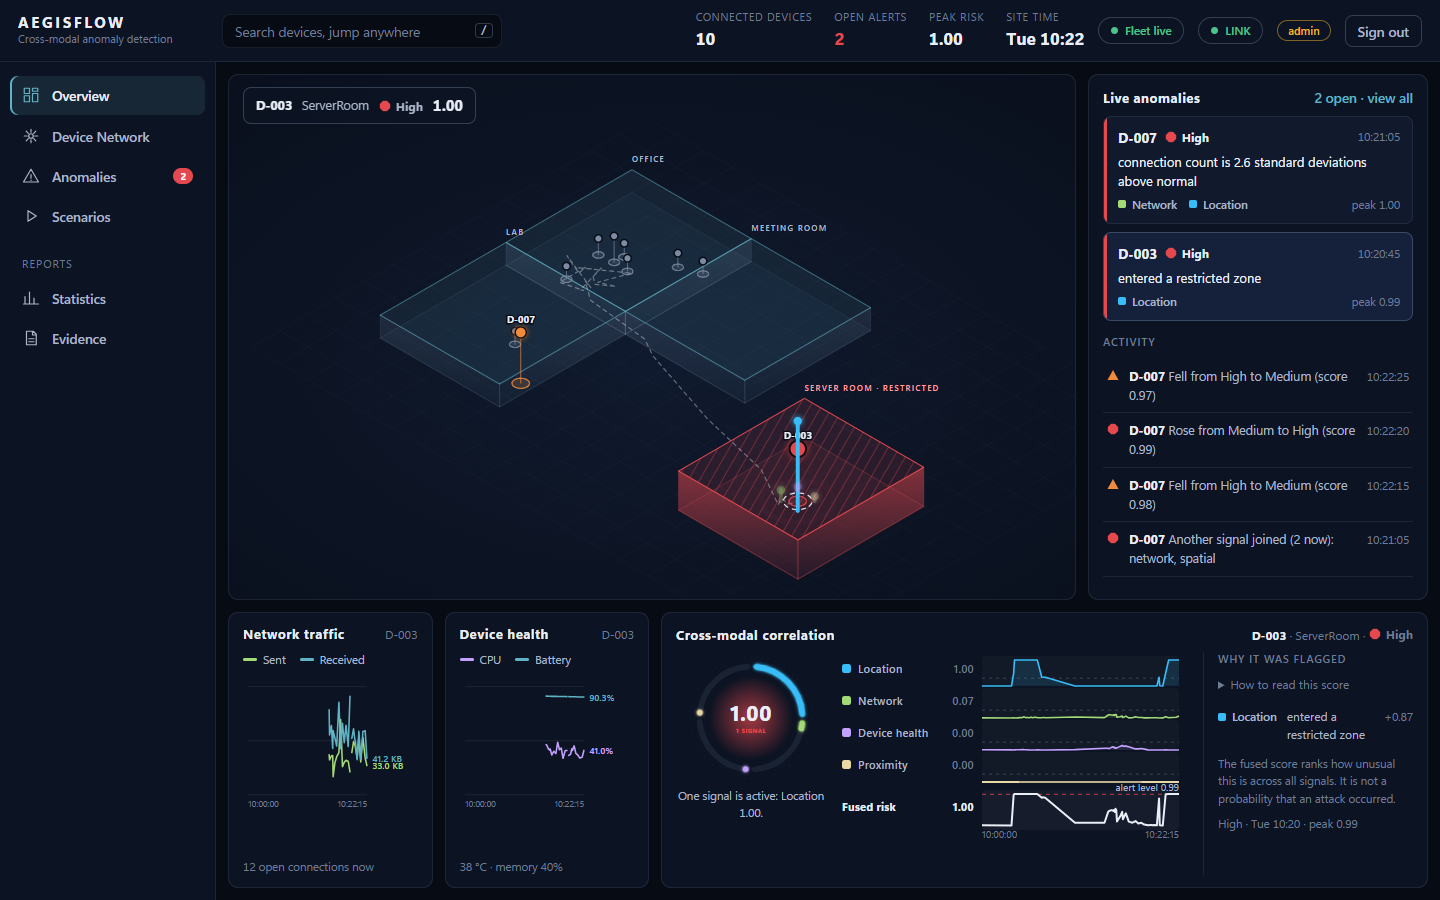
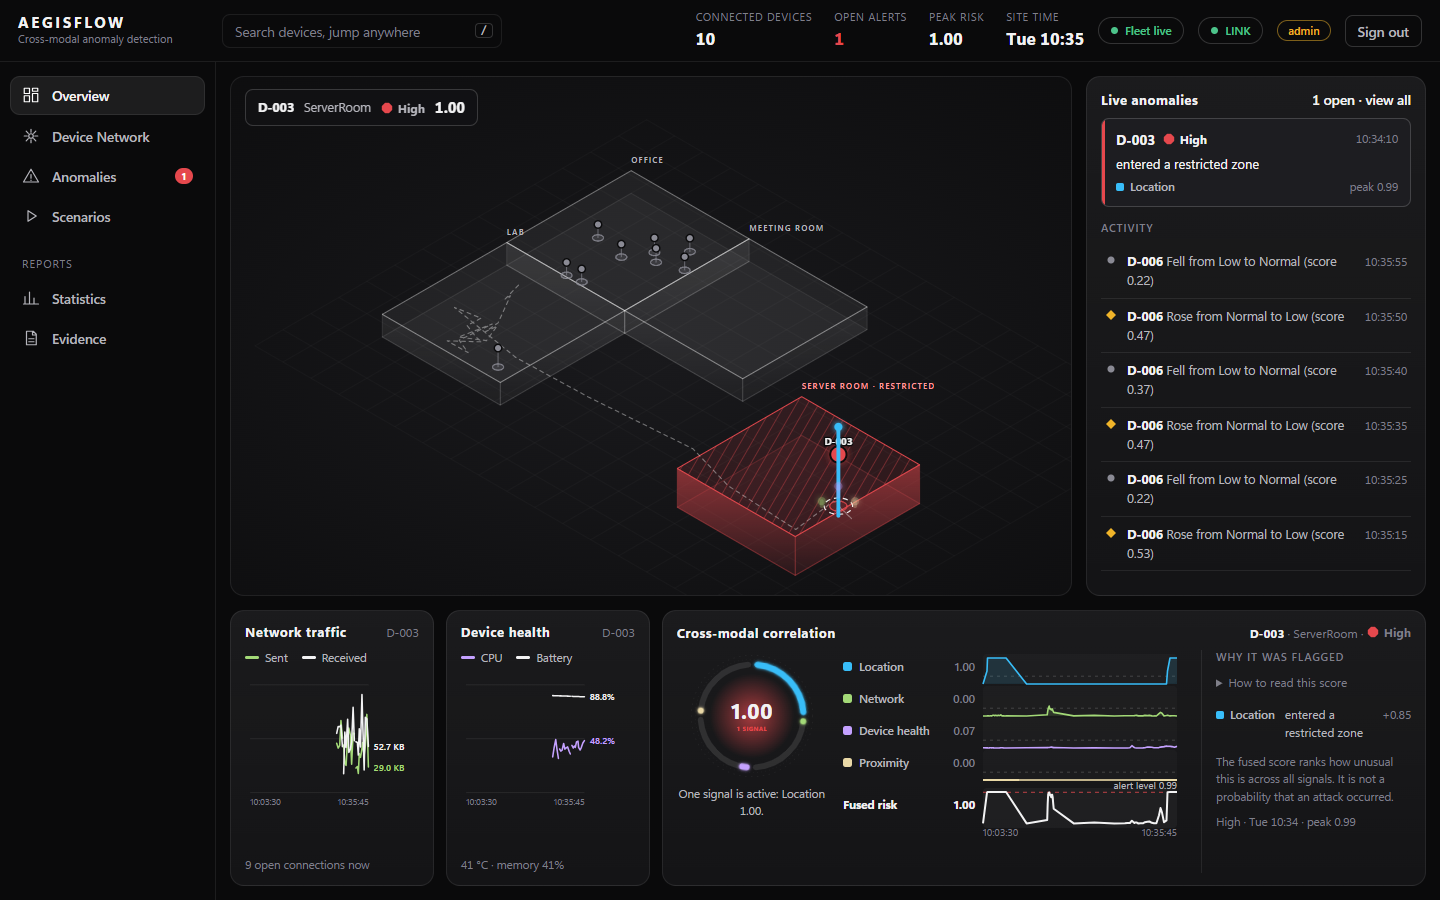
Graphite theme: neutral surfaces, soft cards, white accent, split sign-in screen; signal and severity colours unchanged; screenshots regenerated

diff --git a/frontend/src/styles.css b/frontend/src/styles.css
@@ -1,24 +1,24 @@
-/* AEGISFLOW: refined mission control.
-   Near-black navy surfaces, one muted-cyan accent, white text, amber for warnings, a restrained red for critical.
-   The four signals keep fixed colours everywhere (validated as a set for colour-blind separation) and are always
-   labelled; severity is always colour + shape + word. No glow, no scanlines: quiet until something matters. */
+/* AEGISFLOW: graphite mission control.
+   Near-black neutral surfaces, soft low-contrast cards with hairline borders, white as the single accent (primary buttons, active items).
+   The four signals keep fixed colours everywhere (validated as a set for colour-blind separation) and are always labelled;
+   severity is always colour + shape + word. Colour appears only where it carries meaning. */
 :root {
   color-scheme: dark;
-  --bg: #070b14;
-  --panel: #0c1322;
-  --panel2: #111a2c;
-  --ink: #e9eef7;
-  --ink2: #aab6c9;
-  --muted: #6f7d94;
-  --accent: #5fb3c4;
-  --accent-soft: rgba(95, 179, 196, 0.12);
-  --line: rgba(150, 175, 210, 0.12);
-  --line-strong: rgba(150, 175, 210, 0.28);
+  --bg: #0a0a0b;
+  --panel: #121214;
+  --panel2: #1a1a1d;
+  --ink: #f2f2f3;
+  --ink2: #b6b6bd;
+  --muted: #7f7f89;
+  --accent: #f2f2f3;
+  --accent-soft: rgba(255, 255, 255, 0.07);
+  --line: rgba(255, 255, 255, 0.08);
+  --line-strong: rgba(255, 255, 255, 0.17);
   --sig-spatial: #38bdf8;
   --sig-network: #a3d977;
   --sig-device: #c4a1ff;
   --sig-proximity: #e9d8a6;
-  --sev-normal: #7d8aa3;
+  --sev-normal: #8a8a94;
   --sev-low: #f0b429;
   --sev-medium: #f08a3c;
   --sev-high: #e5484d;
@@ -35,7 +35,7 @@ ul, ol { list-style: none; }
 :focus-visible { outline: 2px solid var(--accent); outline-offset: 2px; }
 .sr { position: absolute; width: 1px; height: 1px; overflow: hidden; clip: rect(0 0 0 0); white-space: nowrap; }
 kbd { font: 600 11px var(--mono); border: 1px solid var(--line-strong); border-radius: 4px; padding: 0 5px; color: var(--ink2); }
-::-webkit-scrollbar { width: 8px; height: 8px; } ::-webkit-scrollbar-thumb { background: rgba(150, 175, 210, 0.2); border-radius: 8px; }
+::-webkit-scrollbar { width: 8px; height: 8px; } ::-webkit-scrollbar-thumb { background: rgba(255, 255, 255, 0.2); border-radius: 8px; }
 .sub { color: var(--muted); font-size: 12px; font-weight: 400; }
 .meta { color: var(--muted); font-size: 11.5px; }
 .note { color: var(--ink2); font-size: 13px; margin-top: 8px; line-height: 1.55; }
@@ -51,10 +51,10 @@ kbd { font: 600 11px var(--mono); border: 1px solid var(--line-strong); border-r
 .chip.role { color: var(--sev-low); border-color: rgba(240, 180, 41, 0.5); }
 
 /* controls */
-.btn { background: var(--panel2); color: var(--ink); border: 1px solid var(--line-strong); border-radius: 8px; padding: 7px 14px; cursor: pointer; font-weight: 600; transition: background 0.15s, border-color 0.15s; }
+.btn { background: var(--panel2); color: var(--ink); border: 1px solid var(--line-strong); border-radius: 10px; padding: 7px 14px; cursor: pointer; font-weight: 600; transition: background 0.15s, border-color 0.15s; }
 .btn:hover:not(:disabled) { background: var(--accent-soft); border-color: var(--accent); }
-.btn.primary { background: var(--accent); color: #04141a; border-color: var(--accent); }
-.btn.primary:hover:not(:disabled) { background: #79c6d6; }
+.btn.primary { background: #f2f2f3; color: #0a0a0b; border-color: #f2f2f3; }
+.btn.primary:hover:not(:disabled) { background: #ffffff; border-color: #ffffff; }
 .btn.danger { color: #ff9a9d; border-color: rgba(229, 72, 77, 0.6); }
 .btn.danger:hover:not(:disabled) { background: rgba(229, 72, 77, 0.12); border-color: var(--sev-high); }
 .btn:disabled { opacity: 0.5; cursor: not-allowed; }
@@ -83,17 +83,31 @@ kbd { font: 600 11px var(--mono); border: 1px solid var(--line-strong); border-r
 .sigchip { display: inline-flex; align-items: center; gap: 6px; font-size: 11.5px; font-weight: 600; color: var(--ink2); white-space: nowrap; }
 .sigchip i { width: 8px; height: 8px; border-radius: 2px; background: var(--c); }
 
-/* login */
-.login { min-height: 100%; display: grid; place-items: center; padding: 20px; }
-.login-orbits { display: none; }
-.login-card { width: min(430px, 100%); padding: 30px 28px; display: flex; flex-direction: column; gap: 14px; background: var(--panel); border: 1px solid var(--line-strong); border-radius: 14px; }
-.login-card h1 { font: 700 22px var(--sans); letter-spacing: 0.14em; }
-.login-card h1 span { display: block; font: 600 11px var(--sans); letter-spacing: 0.3em; color: var(--accent); margin-top: 4px; }
-.login-card .sub { line-height: 1.6; font-size: 13px; }
+/* login: form on the left, a quiet dark panel on the right */
+.login { min-height: 100%; display: grid; place-items: center; padding: 24px; background: radial-gradient(900px 520px at 50% 0%, #1b1b1f, var(--bg)); }
+.login-shell { width: min(1000px, 100%); min-height: 540px; display: grid; grid-template-columns: minmax(0, 1fr) minmax(0, 1fr); border: 1px solid var(--line-strong); border-radius: 22px; overflow: hidden; background: var(--panel); box-shadow: 0 30px 90px rgba(0, 0, 0, 0.55); }
+.login-card { padding: 56px 52px; display: flex; flex-direction: column; justify-content: center; gap: 16px; }
+.login-card .eyebrow { font: 700 11px var(--sans); letter-spacing: 0.3em; color: var(--muted); }
+.login-card h1 { font: 650 30px var(--sans); letter-spacing: -0.01em; }
+.login-card .sub { line-height: 1.65; font-size: 13px; }
+.login-card .field input { background: var(--bg); padding: 11px 12px; border-radius: 10px; }
+.login-card .btn.primary { padding: 11px 14px; margin-top: 4px; }
+.login-card .btn.primary:disabled { background: #34343a; color: #8d8d96; border-color: #34343a; }
+.login-art { position: relative; overflow: hidden; background: radial-gradient(420px 360px at 50% 46%, #17171a, #0b0b0c); border-left: 1px solid var(--line); }
+.login-art .orb { position: absolute; left: 50%; top: 46%; width: 92px; height: 92px; margin: -46px 0 0 -46px; border-radius: 50%; background: radial-gradient(circle at 36% 30%, #e6edf7, #8896ab 55%, #2b3340); box-shadow: 0 0 60px rgba(150, 175, 215, 0.28); }
+.login-art .orb.small { width: 26px; height: 26px; margin: 0; left: 76%; top: 22%; box-shadow: 0 0 22px rgba(150, 175, 215, 0.22); }
+.login-art .streak { position: absolute; width: 1px; background: linear-gradient(180deg, rgba(255, 255, 255, 0), rgba(255, 255, 255, 0.7)); }
+.login-art .streak.a { left: 24%; top: 20%; height: 150px; }
+.login-art .streak.b { left: 70%; top: 52%; height: 110px; }
+.login-art .dots { position: absolute; inset: 0; background-image: radial-gradient(rgba(255, 255, 255, 0.5) 1px, transparent 1.4px), radial-gradient(rgba(255, 255, 255, 0.25) 1px, transparent 1.4px); background-size: 130px 130px, 71px 71px; background-position: 14px 22px, 40px 9px; opacity: 0.35; -webkit-mask-image: radial-gradient(circle at 50% 46%, transparent 0, #000 60%); mask-image: radial-gradient(circle at 50% 46%, transparent 0, #000 60%); }
+.login-art .wordmark { position: absolute; left: 0; right: 0; bottom: 34px; text-align: center; font: 700 14px var(--sans); letter-spacing: 0.34em; color: var(--ink2); }
+@media (prefers-reduced-motion: no-preference) { .login-art .orb { animation: float 7s ease-in-out infinite; } }
+@keyframes float { 0%, 100% { transform: translateY(0); } 50% { transform: translateY(-8px); } }
+@media (max-width: 780px) { .login-shell { grid-template-columns: 1fr; min-height: 0; } .login-art { display: none; } .login-card { padding: 36px 26px; } }
 
 /* shell */
 .shell { display: grid; grid-template-columns: 216px minmax(0, 1fr); grid-template-rows: auto minmax(0, 1fr); height: 100vh; }
-.top { grid-column: 1 / -1; display: flex; align-items: center; gap: 14px; padding: 10px 18px; border-bottom: 1px solid var(--line); background: var(--panel); }
+.top { grid-column: 1 / -1; display: flex; align-items: center; gap: 14px; padding: 10px 18px; border-bottom: 1px solid var(--line); background: var(--bg); }
 .brand { display: flex; flex-direction: column; min-width: 190px; }
 .brand strong { font: 700 15px var(--sans); letter-spacing: 0.18em; line-height: 1.2; }
 .brand span { font-size: 11px; color: var(--muted); }
@@ -112,20 +126,20 @@ kbd { font: 600 11px var(--mono); border: 1px solid var(--line-strong); border-r
 .pill.warn { color: var(--sev-low); } .pill.warn i { background: var(--sev-low); }
 .pill.bad { color: var(--sev-high); } .pill.bad i { background: var(--sev-high); }
 
-.side { grid-row: 2; padding: 14px 10px; border-right: 1px solid var(--line); background: var(--panel); overflow: auto; }
+.side { grid-row: 2; padding: 14px 10px; border-right: 1px solid var(--line); background: var(--bg); overflow: auto; }
 .side ul { display: flex; flex-direction: column; gap: 2px; }
-.side button { width: 100%; display: flex; align-items: center; gap: 12px; padding: 9px 12px; border: 0; border-radius: 8px; background: none; cursor: pointer; color: var(--ink2); font-weight: 600; text-align: left; }
+.side button { width: 100%; display: flex; align-items: center; gap: 12px; padding: 9px 12px; border: 0; border-radius: 10px; background: none; cursor: pointer; color: var(--ink2); font-weight: 600; text-align: left; }
 .side button:hover { background: rgba(255, 255, 255, 0.04); color: var(--ink); }
-.side button[aria-current='page'] { background: var(--accent-soft); color: var(--ink); box-shadow: inset 2px 0 0 var(--accent); }
-.side button[aria-current='page'] svg { color: var(--accent); }
+.side button[aria-current='page'] { background: rgba(255, 255, 255, 0.08); color: var(--ink); box-shadow: inset 0 0 0 1px var(--line); }
+.side button[aria-current='page'] svg { color: #ffffff; }
 .side-label { font-size: 10.5px; letter-spacing: 0.12em; text-transform: uppercase; color: var(--muted); margin: 22px 12px 6px; }
 
 /* overview */
-.overview { grid-row: 2; grid-column: 2; display: grid; grid-template-columns: minmax(0, 1fr) 340px; grid-template-rows: minmax(0, 1fr) 276px; gap: 12px; padding: 12px; min-height: 0; }
-.stage { position: relative; min-height: 0; overflow: hidden; border: 1px solid var(--line); border-radius: 10px; background: radial-gradient(800px 460px at 50% 55%, #101a2e, #080d18); }
+.overview { grid-row: 2; grid-column: 2; display: grid; grid-template-columns: minmax(0, 1fr) 340px; grid-template-rows: minmax(0, 1fr) 276px; gap: 14px; padding: 14px; min-height: 0; }
+.stage { position: relative; min-height: 0; overflow: hidden; border: 1px solid var(--line); border-radius: 14px; background: radial-gradient(800px 460px at 50% 55%, #19191c, #0b0b0c); }
 .floor { position: absolute; inset: 0; width: 100%; height: 100%; }
 .stage-empty { position: absolute; inset: 0; display: grid; place-items: center; }
-.focus-chip { position: absolute; left: 14px; top: 12px; z-index: 3; display: flex; align-items: center; gap: 10px; padding: 6px 12px; background: rgba(12, 19, 34, 0.85); border: 1px solid var(--line-strong); border-radius: 8px; font-size: 12.5px; }
+.focus-chip { position: absolute; left: 14px; top: 12px; z-index: 3; display: flex; align-items: center; gap: 10px; padding: 6px 12px; background: rgba(18, 18, 20, 0.86); border: 1px solid var(--line-strong); border-radius: 8px; font-size: 12.5px; }
 .focus-chip span { color: var(--ink2); }
 .focus-chip .sub { color: var(--muted); }
 .focus-chip .score { font-size: 15px; }
@@ -134,7 +148,7 @@ kbd { font: 600 11px var(--mono); border: 1px solid var(--line-strong); border-r
 .bottom { grid-column: 1 / -1; display: grid; grid-template-columns: minmax(0, 0.8fr) minmax(0, 0.8fr) minmax(0, 3fr); gap: 12px; min-height: 0; }
 
 /* panels */
-.panel { background: var(--panel); border: 1px solid var(--line); border-radius: 10px; padding: 12px 14px; min-height: 0; min-width: 0; overflow: hidden; display: flex; flex-direction: column; }
+.panel { background: linear-gradient(180deg, rgba(255, 255, 255, 0.04), rgba(255, 255, 255, 0.008)), var(--panel); border: 1px solid var(--line); border-radius: 14px; padding: 12px 14px; min-height: 0; min-width: 0; overflow: hidden; display: flex; flex-direction: column; }
 .panel-head { display: flex; justify-content: space-between; align-items: baseline; gap: 8px; margin-bottom: 8px; flex-wrap: wrap; }
 .panel h2, .card h2 { font: 650 13px var(--sans); letter-spacing: 0.04em; color: var(--ink); }
 .panel h3, .h3 { font-size: 10.5px; letter-spacing: 0.1em; text-transform: uppercase; color: var(--muted); margin: 14px 0 8px; font-weight: 600; }
@@ -152,7 +166,7 @@ kbd { font: 600 11px var(--mono); border: 1px solid var(--line-strong); border-r
 .alert-cards, .alert-list { display: flex; flex-direction: column; gap: 8px; }
 .acard { width: 100%; text-align: left; display: grid; gap: 5px; background: var(--panel2); border: 1px solid var(--line); border-radius: 8px; padding: 10px 12px 10px 14px; cursor: pointer; position: relative; overflow: hidden; }
 .acard::before { content: ''; position: absolute; left: 0; top: 0; bottom: 0; width: 3px; background: var(--c, var(--sev-normal)); }
-.acard:hover, .acard[aria-pressed='true'] { border-color: var(--line-strong); background: #15203a; }
+.acard:hover, .acard[aria-pressed='true'] { border-color: var(--line-strong); background: #1d1d21; }
 .acard-top { display: flex; align-items: center; gap: 8px; }
 .acard-top .meta { margin-left: auto; }
 .acard-why { font-size: 13px; color: var(--ink); }
@@ -165,10 +179,10 @@ kbd { font: 600 11px var(--mono); border: 1px solid var(--line-strong); border-r
 .activity .a-body b { color: var(--ink); }
 
 /* floor drawing */
-.floor-grid line { stroke: rgba(150, 175, 210, 0.06); stroke-width: 0.12; }
-.vol-floor { fill: rgba(95, 179, 196, 0.04); stroke: rgba(150, 175, 210, 0.1); stroke-width: 0.2; }
-.vol-side { stroke: rgba(150, 175, 210, 0.2); stroke-width: 0.15; }
-.vol-top { fill: rgba(95, 179, 196, 0.09); stroke: rgba(95, 179, 196, 0.55); stroke-width: 0.3; }
+.floor-grid line { stroke: rgba(255, 255, 255, 0.06); stroke-width: 0.12; }
+.vol-floor { fill: rgba(255, 255, 255, 0.03); stroke: rgba(255, 255, 255, 0.1); stroke-width: 0.2; }
+.vol-side { stroke: rgba(255, 255, 255, 0.2); stroke-width: 0.15; }
+.vol-top { fill: rgba(255, 255, 255, 0.06); stroke: rgba(255, 255, 255, 0.4); stroke-width: 0.3; }
 .vol.hot .vol-floor { fill: rgba(229, 72, 77, 0.06); stroke: rgba(229, 72, 77, 0.35); }
 .vol.hot .vol-side { stroke: rgba(229, 72, 77, 0.5); }
 .vol.hot .vol-top { fill: rgba(229, 72, 77, 0.13); stroke: var(--sev-high); }
@@ -187,11 +201,11 @@ kbd { font: 600 11px var(--mono); border: 1px solid var(--line-strong); border-r
 .spire-base { stroke: var(--c); stroke-width: 1.2; stroke-linecap: round; opacity: 0.25; }
 .spire-cap { fill: var(--c); opacity: 0.4; }
 .spire.on .spire-base, .spire.on .spire-cap { opacity: 1; }
-.weave { fill: rgba(233, 238, 247, 0.07); stroke: var(--ink); stroke-width: 0.35; stroke-dasharray: 1.4 1; animation: dash 1s linear infinite; }
+.weave { fill: rgba(255, 255, 255, 0.07); stroke: var(--ink); stroke-width: 0.35; stroke-dasharray: 1.4 1; animation: dash 1s linear infinite; }
 .beam { stroke: var(--c); stroke-width: 0.4; stroke-dasharray: 1.6 1.2; animation: dash 0.7s linear infinite; }
 
 /* calibration overlay */
-.boot { position: absolute; inset: 0; z-index: 8; display: grid; place-content: center; justify-items: center; gap: 12px; text-align: center; padding: 24px; background: rgba(7, 11, 20, 0.93); }
+.boot { position: absolute; inset: 0; z-index: 8; display: grid; place-content: center; justify-items: center; gap: 12px; text-align: center; padding: 24px; background: rgba(8, 8, 9, 0.94); }
 .boot-core { position: relative; width: 190px; height: 190px; }
 .boot-core svg { width: 100%; height: 100%; }
 .boot-track { fill: none; stroke: var(--line); stroke-width: 6; }
@@ -208,7 +222,7 @@ kbd { font: 600 11px var(--mono); border: 1px solid var(--line-strong); border-r
 /* signal ring */
 .ring { margin: 0 auto; display: block; --core: var(--accent); }
 .ring svg { width: 100%; height: 100%; overflow: visible; }
-.arc-track { fill: none; stroke: rgba(150, 175, 210, 0.1); stroke-width: 9; stroke-linecap: round; }
+.arc-track { fill: none; stroke: rgba(255, 255, 255, 0.1); stroke-width: 9; stroke-linecap: round; }
 .arc { fill: none; stroke-width: 9; stroke-linecap: round; transition: stroke-dasharray 0.7s cubic-bezier(0.2, 0.8, 0.2, 1); }
 .ring-lock { fill: none; stroke: var(--line); stroke-width: 0.8; stroke-dasharray: 2 7; transform-origin: 100px 100px; }
 .ring-lock.inner { stroke-dasharray: 1 5; }
@@ -237,7 +251,7 @@ kbd { font: 600 11px var(--mono); border: 1px solid var(--line-strong); border-r
 .ref-text { fill: #ff9a9d; font: 10px var(--sans); }
 
 /* command palette */
-.palette-wrap { position: fixed; inset: 0; z-index: 50; display: grid; justify-items: center; align-content: start; padding-top: 14vh; background: rgba(3, 6, 12, 0.7); }
+.palette-wrap { position: fixed; inset: 0; z-index: 50; display: grid; justify-items: center; align-content: start; padding-top: 14vh; background: rgba(0, 0, 0, 0.72); }
 .palette { width: min(620px, calc(100% - 28px)); background: var(--panel); border: 1px solid var(--line-strong); border-radius: 12px; box-shadow: 0 24px 80px rgba(0, 0, 0, 0.6); overflow: hidden; }
 .palette input { width: 100%; padding: 15px 18px; background: none; border: 0; border-bottom: 1px solid var(--line); color: var(--ink); font: 15px var(--sans); outline: none; }
 .palette ul { max-height: 52vh; overflow: auto; padding: 6px; }
@@ -251,7 +265,7 @@ kbd { font: 600 11px var(--mono); border: 1px solid var(--line-strong); border-r
 .page-wrap { grid-row: 2; grid-column: 2; overflow: auto; padding: 16px 20px; min-height: 0; }
 .page { max-width: 1180px; margin: 0 auto; display: grid; gap: 12px; }
 .page.two-col { grid-template-columns: minmax(300px, 420px) minmax(0, 1fr); align-items: start; }
-.card { background: var(--panel); border: 1px solid var(--line); border-radius: 10px; padding: 14px 16px; min-width: 0; }
+.card { background: linear-gradient(180deg, rgba(255, 255, 255, 0.04), rgba(255, 255, 255, 0.008)), var(--panel); border: 1px solid var(--line); border-radius: 14px; padding: 14px 16px; min-width: 0; }
 .card > header { display: flex; align-items: baseline; justify-content: space-between; gap: 10px; margin-bottom: 8px; flex-wrap: wrap; }
 .grid-2 { display: grid; grid-template-columns: repeat(auto-fit, minmax(340px, 1fr)); gap: 12px; }
 .tiles { display: grid; grid-template-columns: repeat(auto-fit, minmax(150px, 1fr)); gap: 12px; }
@@ -266,7 +280,7 @@ table.data { width: 100%; border-collapse: collapse; font-size: 13px; }
 table.data th { text-align: left; font-size: 10.5px; letter-spacing: 0.1em; text-transform: uppercase; color: var(--muted); padding: 6px 10px; border-bottom: 1px solid var(--line-strong); font-weight: 600; white-space: nowrap; }
 table.data td { padding: 9px 10px; border-bottom: 1px solid var(--line); }
 table.data tr.sel td { background: var(--accent-soft); }
-.riskbar { display: inline-block; width: 90px; height: 6px; border-radius: 3px; background: rgba(150, 175, 210, 0.12); vertical-align: middle; overflow: hidden; margin-right: 6px; }
+.riskbar { display: inline-block; width: 90px; height: 6px; border-radius: 3px; background: rgba(255, 255, 255, 0.12); vertical-align: middle; overflow: hidden; margin-right: 6px; }
 .riskbar i { display: block; height: 100%; background: var(--c); }
 .sigbars { display: inline-flex; align-items: flex-end; gap: 3px; height: 24px; }
 .sigbars i { width: 6px; border-radius: 2px; background: var(--c); opacity: 0.3; }
@@ -274,11 +288,11 @@ table.data tr.sel td { background: var(--accent-soft); }
 .why-list { display: flex; flex-direction: column; gap: 12px; }
 .why-list li { display: grid; grid-template-columns: 130px minmax(60px, 1fr) 40px auto; gap: 4px 12px; align-items: center; }
 .why-list .reason { grid-column: 1 / -1; color: var(--ink2); font-size: 12.5px; }
-.meter { height: 6px; background: rgba(150, 175, 210, 0.12); border-radius: 3px; overflow: hidden; }
+.meter { height: 6px; background: rgba(255, 255, 255, 0.12); border-radius: 3px; overflow: hidden; }
 .meter i { display: block; height: 100%; }
 .scn-grid { display: grid; grid-template-columns: repeat(auto-fill, minmax(240px, 1fr)); gap: 10px; margin-top: 14px; }
 .scn { text-align: left; display: grid; gap: 6px; align-content: start; background: var(--panel2); border: 1px solid var(--line); border-radius: 10px; padding: 12px 14px; cursor: pointer; }
-.scn:hover:not(:disabled) { border-color: var(--accent); background: #15203a; }
+.scn:hover:not(:disabled) { border-color: var(--accent); background: #1d1d21; }
 .scn:disabled { opacity: 0.5; cursor: not-allowed; }
 .scn b { font-size: 13.5px; }
 .scn > span:nth-of-type(1) { color: var(--ink2); font-size: 12.5px; }
@@ -300,7 +314,7 @@ table.data tr.sel td { background: var(--accent-soft); }
 .chart .spec-dot line { stroke: var(--c); stroke-width: 1.5; opacity: 0.6; }
 .chart .spec-dot circle { fill: var(--c); stroke: var(--panel); stroke-width: 2; }
 .chart .spec-dot text { fill: var(--ink); font: 700 10px var(--sans); paint-order: stroke; stroke: var(--panel); stroke-width: 3px; }
-.tooltip { position: absolute; pointer-events: none; transform: translate(-50%, 0); background: #1a2438; border: 1px solid var(--line-strong); border-radius: 8px; padding: 4px 9px; font-size: 11.5px; white-space: nowrap; z-index: 3; }
+.tooltip { position: absolute; pointer-events: none; transform: translate(-50%, 0); background: #1d1d21; border: 1px solid var(--line-strong); border-radius: 8px; padding: 4px 9px; font-size: 11.5px; white-space: nowrap; z-index: 3; }
 .hbars { display: flex; flex-direction: column; gap: 8px; margin-top: 10px; }
 .hbar { display: grid; grid-template-columns: minmax(80px, 34%) 1fr; gap: 10px; align-items: center; }
 .hbar .lbl { color: var(--ink2); font-size: 12.5px; display: flex; align-items: center; gap: 6px; min-width: 0; }
@@ -344,7 +358,7 @@ table.data tr.sel td { background: var(--accent-soft); }
 @media (min-width: 821px) { body { overflow: hidden; } }
 
 /* ---- degraded observability (D107): a hollow, dashed look and the word "Degraded", unlike any severity ---- */
-:root { --degraded: #b8c4dc; }
+:root { --degraded: #c9c9d1; }
 .sev-degraded { --c: var(--degraded); color: var(--degraded); }
 .kpis .degraded dd { color: var(--degraded); }
 .beacon.degraded .foot { stroke-dasharray: 1.2 1; fill: transparent; stroke: var(--degraded); }

diff --git a/frontend/src/components/Login.tsx b/frontend/src/components/Login.tsx
@@ -19,16 +19,26 @@ export function Login({ onLogin }: { onLogin: (token: string, role: 'admin' | 'v
 
   return (
     <main className="login">
-      <div className="login-orbits" aria-hidden="true"><i /><i /><i /></div>
-      <form className="login-card" onSubmit={submit}>
-        <h1>AEGISFLOW <span>OBSERVATORY</span></h1>
-        <p className="sub">Behavioural anomaly detection for connected devices. It watches location, network, device health and proximity, and speaks up when several of them change together. Enter your access token to board: the viewer token to watch, the admin token to also run the simulation.</p>
-        <label className="field">Access token
-          <input type="password" autoComplete="off" autoFocus value={token} onChange={(e) => setToken(e.target.value)} aria-invalid={!!error} />
-        </label>
-        {error && <p className="error" role="alert">{error}</p>}
-        <button className="btn primary" disabled={busy || token.trim().length < 8} type="submit">{busy ? 'Checking…' : 'Sign in'}</button>
-      </form>
+      <div className="login-shell">
+        <form className="login-card" onSubmit={submit}>
+          <span className="eyebrow">AEGISFLOW</span>
+          <h1>Sign in</h1>
+          <p className="sub">Behavioural anomaly detection for connected devices. It watches location, network, device health and proximity, and speaks up when several of them change together. Enter your access token: the viewer token to watch, the admin token to also run the simulation.</p>
+          <label className="field">Access token
+            <input type="password" autoComplete="off" autoFocus value={token} onChange={(e) => setToken(e.target.value)} aria-invalid={!!error} />
+          </label>
+          {error && <p className="error" role="alert">{error}</p>}
+          <button className="btn primary" disabled={busy || token.trim().length < 8} type="submit">{busy ? 'Checking…' : 'Sign in'}</button>
+        </form>
+        <div className="login-art" aria-hidden="true">
+          <div className="dots" />
+          <i className="streak a" />
+          <i className="streak b" />
+          <i className="orb small" />
+          <i className="orb" />
+          <div className="wordmark">AEGISFLOW</div>
+        </div>
+      </div>
     </main>
   )
 }
